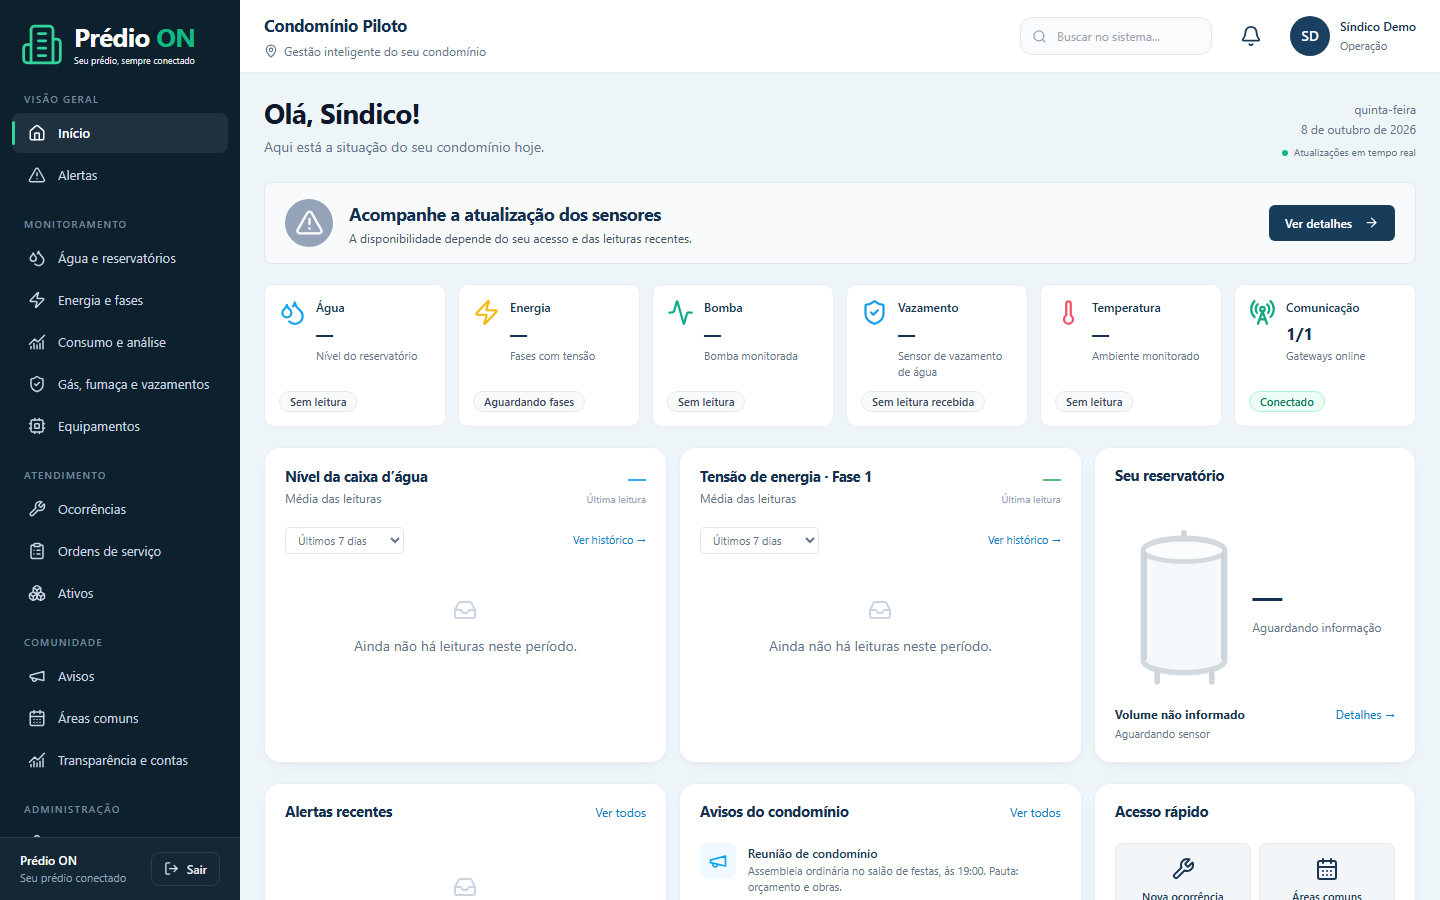
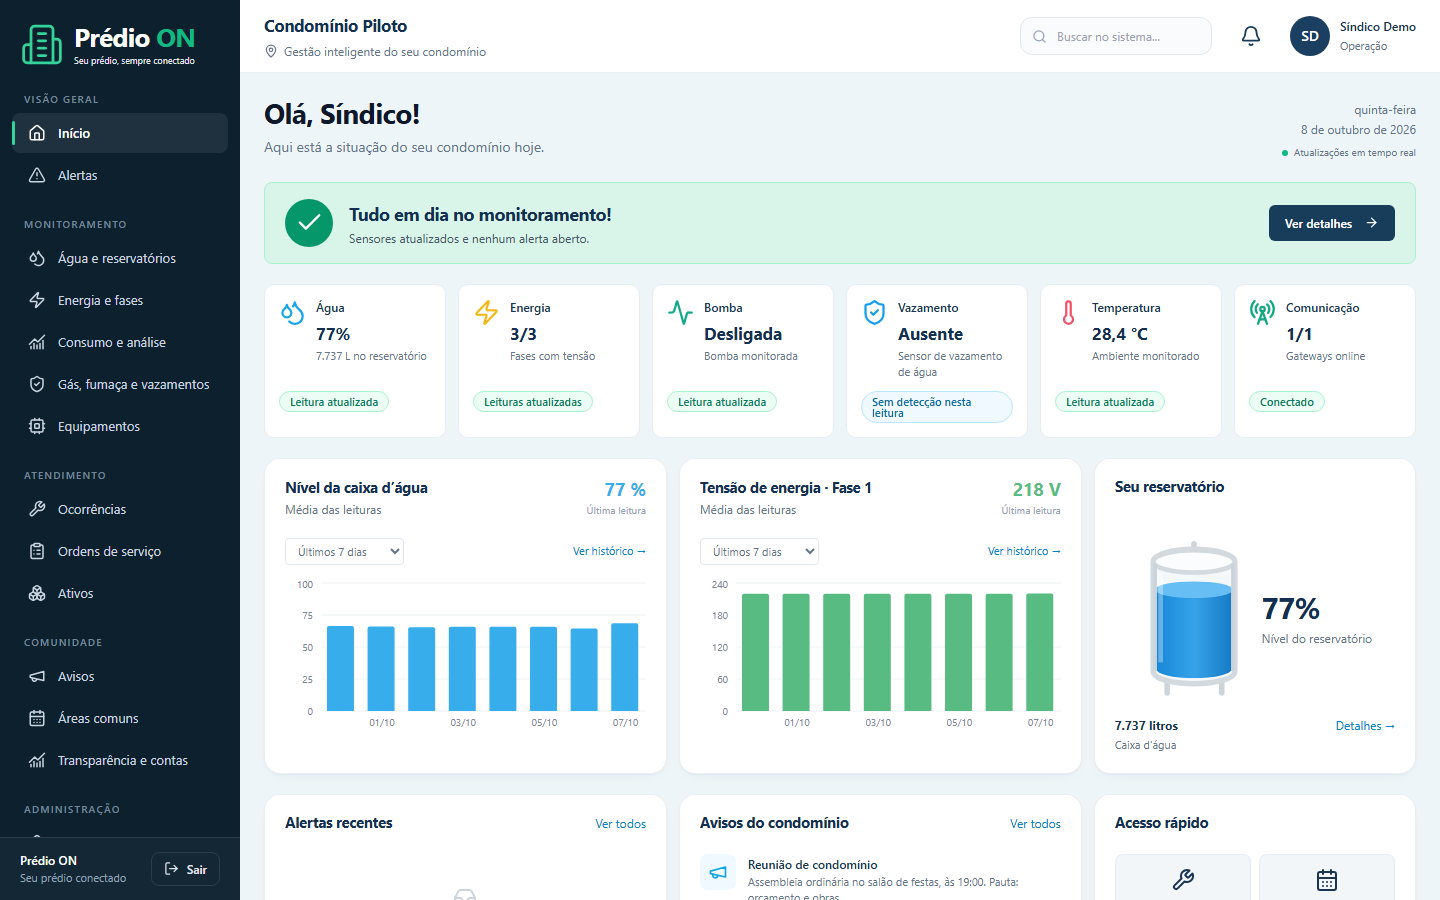
feat(features): switch gates and parking off on existing installations too
Migration 050 applies the default of 049 where condominiums already
exist, with the effects of the audited transition and without touching a
platform setting someone has recorded. The seed no longer creates gate
and parking demo equipment unless a stack asks for those features.

Adds `demo:data`, which feeds seven days of fictitious readings through
the real ingestion pipeline for a demonstration, and screenshots of the
portals with that data and of the Morador app on Android.

diff --git a/packages/db/test/physical-features-opt-in.test.ts b/packages/db/test/physical-features-opt-in.test.ts
@@ -1,0 +1,107 @@
+import assert from "node:assert/strict";
+import { randomUUID } from "node:crypto";
+import { after, before, describe, it } from "node:test";
+import postgres from "postgres";
+import { baseline } from "../src/baseline-schema.js";
+import { applyInfrastructure, loadInfrastructureMigrations } from "../src/infrastructure-migrations.js";
+
+// Creates and drops its own databases; the URL must point to a disposable cluster.
+const adminUrl = process.env.TEST_MIGRATIONS_DATABASE_URL;
+const PHYSICAL = ["CAR_PARKING", "GARAGE_ACCESS", "MOTORCYCLE_PARKING", "PEDESTRIAN_ACCESS"];
+
+describe("gate opening and parking are off by default (SQL049, SQL050)", { skip: !adminUrl, concurrency: false }, () => {
+  let admin: postgres.Sql;
+  const names: string[] = [], clients: postgres.Sql[] = [];
+  const upTo = (limit: number) => async (owner: postgres.Sql) =>
+    applyInfrastructure(owner, (await loadInfrastructureMigrations()).filter(row => Number.parseInt(row.id, 10) <= limit));
+  async function database(): Promise<postgres.Sql> {
+    const name = `physical_${randomUUID().replaceAll("-", "")}`;
+    await admin.unsafe(`create database "${name}"`);
+    names.push(name);
+    const url = new URL(adminUrl!); url.pathname = `/${name}`;
+    const owner = postgres(url.toString(), { max: 1, onnotice: () => {} });
+    clients.push(owner);
+    await owner.unsafe(baseline);
+    return owner;
+  }
+  const settings = async (owner: postgres.Sql) => (await owner`select feature_key, enabled from global_feature_settings order by 1`).map(row => `${row.feature_key}=${row.enabled}`);
+  /** An installation in use: two condominiums with gates, a pending command and counted parking. */
+  async function inUse(owner: postgres.Sql) {
+    await owner`insert into organizations(id,name,slug) values('org','Fixture','org')`;
+    await owner`insert into users(id,email,name) values('resident','resident@example.invalid','Resident')`;
+    for (const id of ["a", "b"]) {
+      await owner`insert into buildings(id,organization_id,name,code) values(${id},'org',${id},${id})`;
+      await owner`insert into gateways(id,building_id,name,serial_number) values(${`gw-${id}`},${id},'Gateway',${`gw-${id}`})`;
+      for (const kind of ["GARAGE", "PEDESTRIAN"]) {
+        const device = `${kind}-${id}`;
+        await owner`insert into devices(id,building_id,gateway_id,name,type) values(${device},${id},${`gw-${id}`},${device},'GATE_CONTROLLER')`;
+        const [gate] = await owner`insert into gates(building_id,name,kind,gateway_id,device_id,enabled) values(${id},${kind},${kind},${`gw-${id}`},${device},true) returning id`;
+        for (const status of ["PENDING", "SENT"]) await owner`insert into gate_commands(request_id,gate_id,building_id,gateway_id,device_id,requested_by,status,expires_at)
+          values(${randomUUID()},${gate!.id},${id},${`gw-${id}`},${device},'resident',${status},now()+interval '10 seconds')`;
+      }
+      for (const vehicle of ["CAR", "MOTORCYCLE"]) await owner`insert into parking_lots(building_id,vehicle_type,capacity,occupied,source,observed_at) values(${id},${vehicle},10,4,'MANUAL',now())`;
+    }
+  }
+
+  before(async () => { admin = postgres(adminUrl!, { max: 1, onnotice: () => {} }); });
+  after(async () => {
+    for (const client of clients) await client.end({ timeout: 0 });
+    for (const name of names) await admin.unsafe(`drop database if exists "${name}" with (force)`);
+    await admin?.end();
+  });
+
+  it("starts a new installation with the four features off and every other one untouched", async () => {
+    const owner = await database();
+    await upTo(999)(owner);
+    assert.deepEqual(await settings(owner), PHYSICAL.map(key => `${key}=false`));
+    assert.equal((await owner`select count(*)::int as total from audit_logs`)[0]!.total, 0, "nothing was in use, so there is nothing to audit");
+    assert.equal((await owner`select count(*)::int as total from feature_runtime`)[0]!.total, 0);
+  });
+
+  it("switches an installation in use off with the effects of the audited transition", async () => {
+    const owner = await database();
+    await upTo(48)(owner);
+    await inUse(owner);
+    // Condominium b had already paused its garage: that local choice is not a transition now.
+    await owner`insert into building_feature_settings(building_id,feature_key,enabled) values('b','GARAGE_ACCESS',false)`;
+    await owner`insert into feature_runtime(building_id,feature_key,resumed_at,generation) values('a','CAR_PARKING',now(),3)`;
+    await upTo(999)(owner);
+
+    assert.deepEqual(await settings(owner), PHYSICAL.map(key => `${key}=false`));
+    const commands = await owner`select c.building_id, g.kind, c.status, c.failure_reason from gate_commands c join gates g on g.id=c.gate_id order by 1,2,3`;
+    assert.deepEqual(commands.map(row => `${row.building_id}/${row.kind}/${row.status}/${row.failure_reason ?? "-"}`), [
+      "a/GARAGE/FAILED/Funcionalidade desativada", "a/GARAGE/SENT/-", "a/PEDESTRIAN/FAILED/Funcionalidade desativada", "a/PEDESTRIAN/SENT/-",
+      "b/GARAGE/PENDING/-", "b/GARAGE/SENT/-", "b/PEDESTRIAN/FAILED/Funcionalidade desativada", "b/PEDESTRIAN/SENT/-",
+    ], "only pending commands of a feature that was on are cancelled; a command already sent is never rewritten");
+    const lots = await owner`select occupied, observed_at, source, version from parking_lots`;
+    assert.equal(lots.length, 4);
+    assert.ok(lots.every(lot => lot.occupied === null && lot.observed_at === null && lot.source === "UNKNOWN" && lot.version === 2), "a count taken before the pause is not shown as current");
+    const runtime = await owner`select building_id, feature_key, generation, paused_at is not null as paused from feature_runtime order by 1,2`;
+    assert.deepEqual(runtime.map(row => `${row.building_id}/${row.feature_key}/${row.generation}/${row.paused}`), [
+      "a/CAR_PARKING/4/true", "a/GARAGE_ACCESS/1/true", "a/MOTORCYCLE_PARKING/1/true", "a/PEDESTRIAN_ACCESS/1/true",
+      "b/CAR_PARKING/1/true", "b/MOTORCYCLE_PARKING/1/true", "b/PEDESTRIAN_ACCESS/1/true",
+    ]);
+    const audit = await owner`select action, building_id, actor_type, user_id, resource_id, metadata from audit_logs order by action, resource_id, building_id`;
+    assert.deepEqual(audit.filter(row => row.action === "ACCESS_COMMAND_CANCELLED_BY_FEATURE").map(row => `${row.building_id}/${row.metadata.feature}`).sort(), ["a/GARAGE_ACCESS", "a/PEDESTRIAN_ACCESS", "b/PEDESTRIAN_ACCESS"]);
+    assert.deepEqual(audit.filter(row => row.action === "FEATURE_CONFIGURATION_CHANGED").map(row => `${row.resource_id}/${row.metadata.affectedBuildings}/${row.metadata.before}>${row.metadata.after}`),
+      ["CAR_PARKING/2/true>false", "GARAGE_ACCESS/1/true>false", "MOTORCYCLE_PARKING/2/true>false", "PEDESTRIAN_ACCESS/2/true>false"]);
+    assert.ok(audit.every(row => row.actor_type === "SYSTEM" && row.user_id === null), "no person is named as the author of a migration");
+    assert.equal((await owner`select count(*)::int as total from gates where enabled`)[0]!.total, 4, "configuration is kept for when the feature is turned on again");
+
+    assert.deepEqual(await applyInfrastructure(owner, await loadInfrastructureMigrations()), [], "nothing is applied twice");
+  });
+
+  it("leaves a platform setting that someone recorded exactly as it is", async () => {
+    const owner = await database();
+    await upTo(48)(owner);
+    await inUse(owner);
+    await owner`insert into global_feature_settings(feature_key,enabled,version) values('GARAGE_ACCESS',true,4),('CAR_PARKING',false,2)`;
+    await upTo(999)(owner);
+    assert.deepEqual(await settings(owner), ["CAR_PARKING=false", "GARAGE_ACCESS=true", "MOTORCYCLE_PARKING=false", "PEDESTRIAN_ACCESS=false"]);
+    assert.deepEqual((await owner`select feature_key, version from global_feature_settings where feature_key in ('GARAGE_ACCESS','CAR_PARKING') order by 1`).map(row => `${row.feature_key}/${row.version}`), ["CAR_PARKING/2", "GARAGE_ACCESS/4"]);
+    const garage = await owner`select c.status from gate_commands c join gates g on g.id=c.gate_id where g.kind='GARAGE' and c.status='PENDING'`;
+    assert.equal(garage.length, 2, "a feature kept on keeps its pending commands");
+    assert.equal((await owner`select count(*)::int as total from parking_lots where vehicle_type='CAR' and occupied=4`)[0]!.total, 2, "an explicit setting is not re-applied, even when it is off");
+    assert.equal((await owner`select count(*)::int as total from parking_lots where vehicle_type='MOTORCYCLE' and occupied is null`)[0]!.total, 2);
+  });
+});

diff --git a/services/ingest/src/demo-data.ts b/services/ingest/src/demo-data.ts
@@ -1,0 +1,79 @@
+// Fictitious readings for a demonstration, without broker or hardware.
+//
+//   pnpm --filter @predioon/ingest demo:data            last 7 days, then stops
+//   pnpm --filter @predioon/ingest demo:data --follow   keeps sending every 10 s
+//
+// Every value goes through the real ingestion pipeline (validation, deduplication,
+// consumption, alerts), so the panels show exactly what real sensors would produce.
+// It writes telemetry and raises the demo consumption limits to the size of the
+// simulated building: use it only on a demonstration database, never on a
+// condominium with real equipment.
+import { randomUUID } from "node:crypto";
+import { setTimeout as delay } from "node:timers/promises";
+import { sqlClient } from "@predioon/db";
+import { telemetryTopic, waterTelemetryTopic } from "@predioon/shared";
+import { handleTelemetry } from "./pipeline/telemetry.js";
+import { initialState, nextState, type FieldState } from "./simulator/state.js";
+
+const buildingId = process.env.SIM_BUILDING_ID ?? "bld_001";
+const days = Number(process.env.DEMO_DAYS ?? 7);
+const follow = process.argv.includes("--follow");
+if (!Number.isInteger(days) || days < 1 || days > 30) throw new Error("DEMO_DAYS deve ser um inteiro entre 1 e 30");
+// Consumption is only estimated between readings at most five minutes apart.
+const STEP_SECONDS = 300, SPARSE_EVERY = 6;
+
+const send = (deviceId: string, metric: string, value: number | boolean, at: Date, unit?: string) =>
+  handleTelemetry(telemetryTopic(buildingId, deviceId), Buffer.from(JSON.stringify({ schemaVersion: 1, eventId: randomUUID(), buildingId, deviceId,
+    metric, value, ...(unit ? { unit } : {}), quality: "GOOD", timestamp: at.toISOString() })));
+
+/** Meters every step; slow-changing sensors only when `everything` is set. */
+async function publish(state: FieldState, at: Date, everything: boolean): Promise<void> {
+  await send("energy_01", "energy_total_kwh", Math.round(state.energyTotalKwh * 1e6) / 1e6, at, "kWh");
+  await send("water_meter_01", "water_total_m3", Math.round(state.waterTotalM3 * 1e6) / 1e6, at, "m³");
+  await send("pump_01", "pump_running", state.pumpRunning, at);
+  if (!everything) return;
+  await handleTelemetry(waterTelemetryTopic(buildingId, "water_01"), Buffer.from(JSON.stringify({ device_id: "water_01", type: "nivel_caixa_agua",
+    nivel_percentual: state.waterLevelPercent, volume_litros: state.waterVolumeLiters,
+    distancia_mm: Math.round((1 - state.waterLevelPercent / 100) * 2000), timestamp: at.toISOString() })));
+  for (const [metric, value, unit] of [["voltage_l1", state.voltageL1, "V"], ["voltage_l2", state.voltageL2, "V"], ["voltage_l3", state.voltageL3, "V"],
+    ["current_l1", state.currentL1, "A"], ["current_l2", state.currentL2, "A"], ["current_l3", state.currentL3, "A"], ["frequency_hz", state.frequencyHz, "Hz"]] as const) {
+    await send("phase_01", metric, value, at, unit);
+  }
+  await send("leak_01", "water_leak_detected", state.leakDetected, at);
+  await send("sewage_01", "sewage_leak_detected", state.sewageLeakDetected, at);
+  await send("gas_01", "gas_detected", state.gasDetected, at);
+  await send("gas_01", "gas_ppm", state.gasPpm, at, "ppm");
+  await send("smoke_01", "smoke_detected", state.smokeDetected, at);
+  await send("temp_01", "temperature_c", state.temperatureC, at, "°C");
+}
+
+try {
+  const [building] = await sqlClient`select name from buildings where id=${buildingId}`;
+  if (!building) throw new Error(`Condomínio ${buildingId} não encontrado. Rode o seed de demonstração antes.`);
+  // A second history over the same period would make the meters run backwards.
+  const [existing] = await sqlClient`select 1 from telemetry where building_id=${buildingId} and time > now() - make_interval(days => ${days}) limit 1`;
+  if (existing && !follow) throw new Error("Este condomínio já tem leituras no período. O histórico fictício é gerado uma única vez; use --follow para continuar enviando leituras atuais.");
+  // The seed limits are illustrative and far below what the simulated building uses in a day;
+  // left as they are, the demonstration would open with a wall of consumption alerts.
+  if (!existing) {
+    await sqlClient`update monitoring_profiles set daily_limit=300, daily_cost_limit=300 where building_id=${buildingId} and kind='ENERGY'`;
+    await sqlClient`update monitoring_profiles set daily_limit=60 where building_id=${buildingId} and kind='WATER'`;
+    await sqlClient`update monitoring_profiles set daily_limit=480, continuous_limit_minutes=180 where building_id=${buildingId} and kind='PUMP'`;
+  }
+  const steps = existing ? 0 : days * 86_400 / STEP_SECONDS, start = Date.now() - steps * STEP_SECONDS * 1000;
+  console.log(existing ? `[demonstração] ${building.name}: histórico já existe; enviando só leituras atuais.` : `[demonstração] ${building.name}: ${days} dia(s) de leituras fictícias, ${steps} passos de ${STEP_SECONDS / 60} min.`);
+  let state = initialState();
+  for (let tick = 1; tick <= steps; tick++) {
+    state = nextState(state, tick, "normal", STEP_SECONDS);
+    await publish(state, new Date(start + tick * STEP_SECONDS * 1000), tick % SPARSE_EVERY === 0 || tick === steps);
+    if (tick % 288 === 0) console.log(`[demonstração] ${tick / 288} de ${days} dia(s)`);
+  }
+  if (steps) console.log("[demonstração] histórico concluído; os painéis mostram leituras atuais por alguns minutos.");
+  for (let tick = steps + 1; follow; tick++) {
+    await delay(10_000);
+    state = nextState(state, tick, "normal", 10);
+    await publish(state, new Date(), true);
+  }
+} finally {
+  await sqlClient.end();
+}

diff --git a/packages/db/src/seed-features.ts b/packages/db/src/seed-features.ts
@@ -11,6 +11,9 @@ export async function seedFeatures() {
     { buildingId: "bld_001", deviceId: "water_meter_01", kind: "WATER", tariff: null, dailyLimit: 20 },
     { buildingId: "bld_001", deviceId: "pump_01", kind: "PUMP", dailyLimit: 60, continuousLimitMinutes: 60 },
   ]).onConflictDoNothing();
+  // Gate opening and parking counting are opt-in (migration 049): their demo equipment
+  // is only created for a stack that asks for those features.
+  if (process.env.SEED_PHYSICAL_FEATURES !== "enabled") return;
   await db.insert(devices).values([
     { id: "gate_garage_01", name: "Controlador da garagem", type: "GATE_CONTROLLER" },
     { id: "gate_pedestrian_01", name: "Controlador do portão de pedestres", type: "GATE_CONTROLLER" },
@@ -27,6 +30,6 @@ export async function seedFeatures() {
   ]).onConflictDoNothing();
 }
 if (process.argv[1] && resolve(process.argv[1]) === fileURLToPath(import.meta.url)) {
-  try { await seedFeatures(); console.log("Recursos de demonstração cadastrados. Tarifa de energia ilustrativa: R$ 1/kWh. Portões desativados."); }
+  try { await seedFeatures(); console.log("Recursos de demonstração cadastrados. Tarifa de energia ilustrativa: R$ 1/kWh."); }
   finally { await sqlClient.end(); }
 }

diff --git a/packages/db/test/backup-restore.test.ts b/packages/db/test/backup-restore.test.ts
@@ -214,7 +214,7 @@ for(const separateCluster of [false,true])it(`restores a real Timescale archive 
     await applyInfrastructure(source,migrations);
     // Gates and parking are opt-in since SQL049; this fixture exercises them, so it switches them on as the platform administrator would.
     await source`update global_feature_settings set enabled=true where feature_key in ('GARAGE_ACCESS','PEDESTRIAN_ACCESS','CAR_PARKING','MOTORCYCLE_PARKING')`;
-    assert.equal(migrations.length,49,'recovery fixture includes the complete immutable SQL049 ledger');
+    assert.equal(migrations.length,50,'recovery fixture includes the complete immutable SQL050 ledger');
     const sourceConnections=await provisionRuntime(sourceUrl);
     await restrictedRoles(source,true);
     await source`insert into organizations(id,name,slug) values('restore-org','Recovery fixture','restore-org')`;

diff --git a/packages/db/test/notification-delivery.test.ts b/packages/db/test/notification-delivery.test.ts
@@ -226,7 +226,7 @@ describe("durable alert delivery SQL038, real restricted connections", { skip: !
   it("preserves delivery state on ledger reapplication", async () => {
     await enqueue(await alert()); const migrations = await loadInfrastructureMigrations();
     assert.deepEqual(await applyInfrastructure(owner, migrations), []);
-    assert.equal((await owner`select count(*)::int as count from schema_migrations`)[0]!.count, 49);
+    assert.equal((await owner`select count(*)::int as count from schema_migrations`)[0]!.count, 50);
     assert.equal((await owner`select count(*)::int as count from event_deliveries`)[0]!.count, 1);
   });
   it("removes preexisting runtime column grants, PUBLIC column grants and memberships", async () => {

diff --git a/docs/CONTINUIDADE.md b/docs/CONTINUIDADE.md
@@ -633,3 +633,17 @@ Ordem definida pelo proprietário: **planos e assinaturas por último**; antes, 
 **Provas:** integral em Linux com banco zerado: API **791/792** na primeira execução, e a falha era o teste de política citado acima; corrigida a mensagem, esse arquivo passou 5/5 (a suíte completa não foi repetida). Ingestão **129/129**. Notificações de banco **53/54** antes do ajuste de preparação e **54/54** depois; worker de notificações 35 aprovados, 0 falhas; produtores **40/40**; restauração **2/2** com 49 migrations. Matriz de navegadores **339/339** em Chromium, Firefox e WebKit. A 049 aplicada ao banco de demonstração local, que já tem condomínios, não alterou nada, como previsto; ali as quatro funcionalidades foram desligadas pela API de administração (quatro respostas 200) e o percurso visual passou **61/61**, sem nenhum passo de portões ou vagas. Capturas em [imagens/2026-10-08](imagens/2026-10-08/).
 
 **Não verificado:** os aplicativos Android com as funcionalidades desligadas, e a instalação de demonstração do proprietário, que continua com elas ligadas até o passo manual.
+
+### 08/10: portões e vagas desligados em instalações existentes (050), dados fictícios e Android
+
+**Pedido do proprietário:** resolver o passo manual que a 049 deixava para instalações existentes; gerar imagem do painel com dados fictícios; print do Morador num Android.
+
+**050:** desliga as quatro funcionalidades também onde já há condomínios, com os mesmos efeitos da transição auditada, respeitando qualquer configuração global já registrada. Detalhes em [MIGRATIONS.md](MIGRATIONS.md). O seed deixou de criar os equipamentos de demonstração de portão e vagas, a não ser com `SEED_PHYSICAL_FEATURES=enabled`; antes eles apareciam em Equipamentos como "Em configuração" mesmo com os módulos desligados.
+
+**Dados fictícios:** `pnpm --filter @predioon/ingest demo:data` gera 7 dias de leituras pelo pipeline real de ingestão, sem broker nem hardware (`--follow` continua enviando a cada 10 s). Recusa rodar duas vezes sobre o mesmo período, porque os medidores andariam para trás, e ajusta os limites de consumo do seed ao porte do prédio simulado. **Só para banco de demonstração.** Leva cerca de 20 minutos nesta máquina (11.424 leituras, uma transação por leitura).
+
+**Android:** o app Morador rodou no emulador (Pixel 7, Android 15) contra a API local: entrada, escolha do condomínio, Avisos, Solicitações e Reservas. Com as funcionalidades desligadas, a aba de Acessos não aparece. O app nativo **não recebeu o redesenho dos portais web**; continua com o visual anterior.
+
+**Provas:** teste novo da migration **3/3** em banco real (instalação nova; instalação em uso com comandos pendentes, vagas contadas e uma pausa local preexistente; configuração global registrada preservada). Diretório de testes de banco 30 aprovados e 9 pulados por falta de ambiente; restauração **2/2** com 50 migrations; notificações **54/54**. Integral em Linux com banco zerado: API **792/792**, ingestão **129/129**. Matriz de navegadores **339/339** em Chromium, Firefox e WebKit. A 050 aplicada ao banco de demonstração local não alterou nada, porque ali as quatro já tinham sido desligadas pela API. Capturas em [imagens/2026-10-08](imagens/2026-10-08/).
+
+**Não verificado:** a 050 sobre a instalação de demonstração do proprietário (o caminho ativo foi exercitado só no teste); o app Operação no Android; aparelho físico.

diff --git a/docs/MIGRATIONS.md b/docs/MIGRATIONS.md
@@ -272,8 +272,16 @@ A API nova exige a 047 só nas duas rotas de recuperação; entrada, sessões e 
 
 `049-physical-features-opt-in.sql` grava `GARAGE_ACCESS`, `PEDESTRIAN_ACCESS`, `CAR_PARKING` e `MOTORCYCLE_PARKING` como **desligadas no nível global** numa instalação que ainda não tem condomínios. As demais funcionalidades seguem a regra da 012: sem configuração, ligadas.
 
-**Instalação que já tem condomínios não é alterada pela migration.** Desligar uma funcionalidade tem efeitos (cancela comandos de portão pendentes, limpa a ocupação das vagas) que pertencem à transição auditada da API. Faça pela tela: administração → Funcionalidades → desligar as quatro.
+**Instalação que já tem condomínios** não é alterada pela 049; quem cuida dela é a 050, abaixo.
 
 **Para ligar:** administração → Funcionalidades. O desligamento global é teto: enquanto estiver desligado, nenhum condomínio consegue ligar localmente.
 
 **Ambientes de teste** que exercitam portões e vagas precisam ligá-las de forma explícita: `SEED_PHYSICAL_FEATURES=enabled pnpm db:seed` (já está nos workflows). Testes que montam o próprio banco só com migrations fazem o `update` na preparação.
+
+## Release 050: portões e vagas desligados também em instalações existentes
+
+`050-physical-features-off-existing.sql` aplica o padrão da 049 a instalações que já têm condomínios, sem passo manual. Para cada uma das quatro funcionalidades **sem configuração global registrada**, grava o desligamento e, em cada condomínio onde ela estava de fato ligada, reproduz os efeitos da transição auditada da API (SQL038): avança a geração de execução, limpa a ocupação das vagas, cancela e audita os comandos de portão pendentes e cancela entregas de alerta que deixaram de ser elegíveis. Os registros de auditoria saem como `SYSTEM`, sem nomear uma pessoa.
+
+**O que ela não toca:** uma configuração global que alguém já registrou, ligada ou desligada, fica como está; cadastros de portões, vagas e equipamentos são mantidos; comandos já enviados não são reescritos.
+
+**Efeito ao aplicar:** as telas de Acessos e Vagas somem dos portais e dos aplicativos, e a ingestão passa a recusar leituras desses módulos. Para religar: administração → Funcionalidades.
